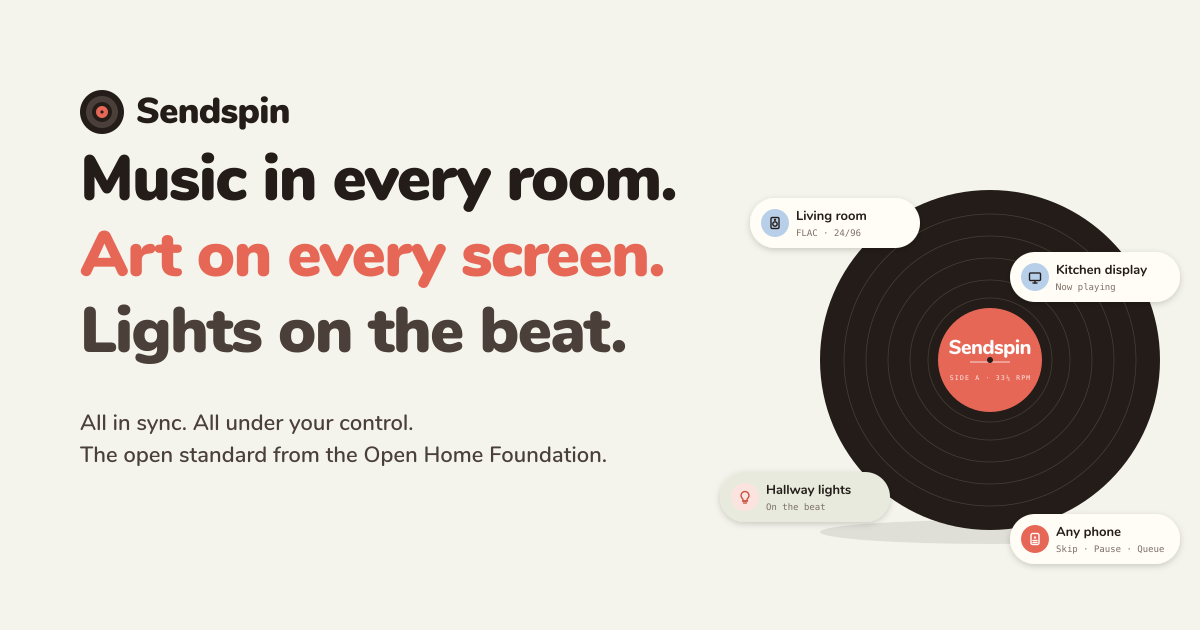
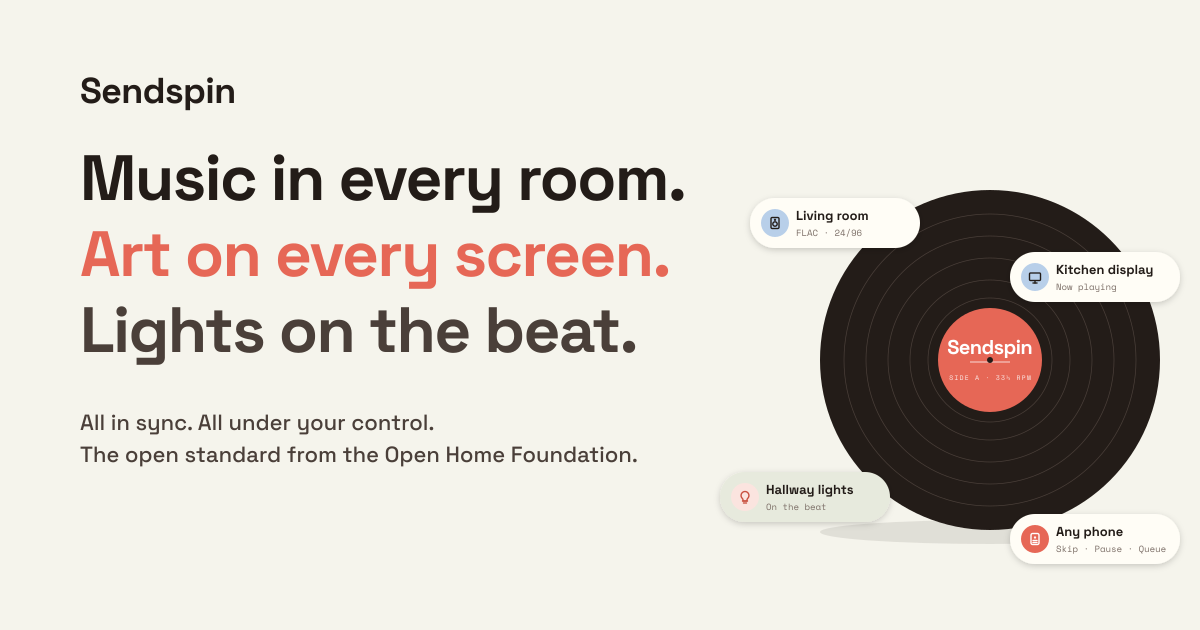
Update social image

diff --git a/CLAUDE.md b/CLAUDE.md
@@ -2,4 +2,4 @@
 - Deploys automatically via GitHub Actions when pushed to main
 - Local development: `./script/develop` (runs on port 5005)
 - Production build: `./script/build`
-- When changing public/images/social.svg, re-render it with rsvg-convert.
+- When changing public/images/social.svg, re-render it with rsvg-convert. Make sure the used fonts are installed.